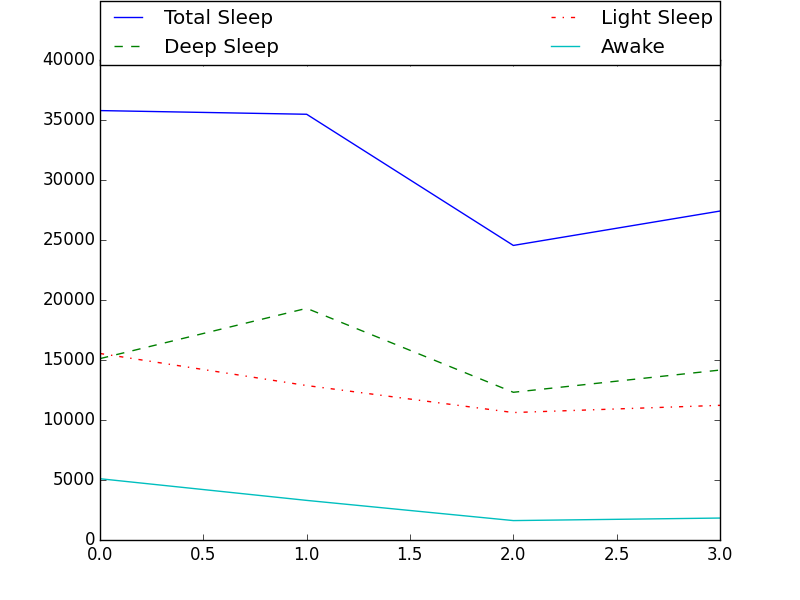
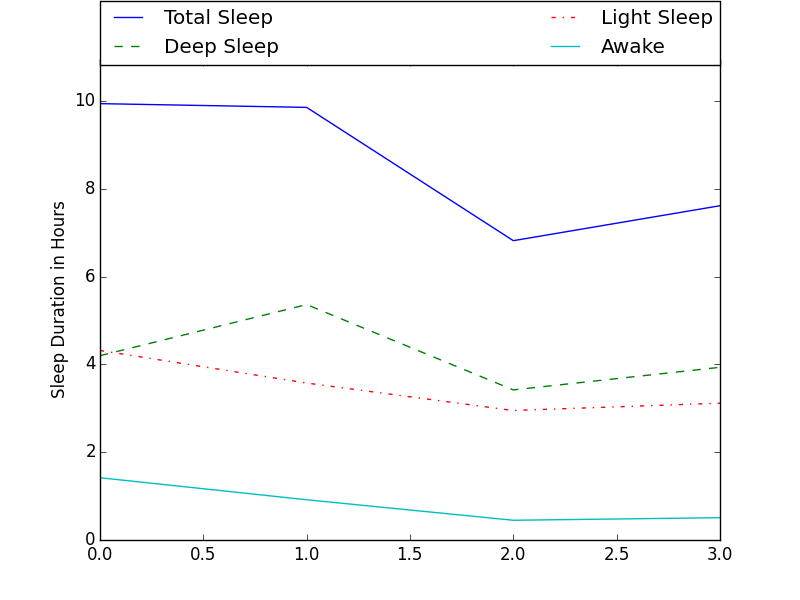
converted seconds to hours

diff --git a/main.py b/main.py
@@ -8,6 +8,10 @@ import json
 from pprint import pprint
 
 
+def to_hours(seconds):
+    return seconds / 60 / 60
+
+
 def plot_from_csv():
     sleep_data = parse_csv()
     total_times = []
@@ -17,10 +21,10 @@ def plot_from_csv():
     labels = []
     for row in sleep_data:
         # currently I am converting to number of seconds for plotting
-        total_times.append((row[1] - row[0]).total_seconds())
-        deep_times.append((row[4]).total_seconds())
-        light_times.append((row[7]).total_seconds())
-        awake_times.append((row[10]).total_seconds())
+        total_times.append(to_hours((row[1] - row[0]).total_seconds()))
+        deep_times.append(to_hours((row[4]).total_seconds()))
+        light_times.append(to_hours((row[7]).total_seconds()))
+        awake_times.append(to_hours((row[10]).total_seconds()))
 
         # label is month/day
         labels.append(str(row[1].month) + "/" + str(row[1].day))
@@ -43,13 +47,13 @@ def plot_from_json():
     for item in items:
         labels.append(item['time_completed'])
         item = item['details']
-        total_times.append(item['duration'])
-        deep_times.append(item['sound'])
-        light_times.append(item['light'])
-        awake_times.append(item['awake'])
+        total_times.append(to_hours(item['duration']))
+        deep_times.append(to_hours(item['sound']))
+        light_times.append(to_hours(item['light']))
+        awake_times.append(to_hours(item['awake']))
 
     plot_line_graph(total_times, deep_times, light_times, awake_times)
-    #plot_bar_chart(total_times, deep_times, light_times, awake_times, labels)
+    plot_bar_chart(total_times, deep_times, light_times, awake_times, labels)
     json_data.close()
 
 if __name__ == '__main__':

diff --git a/plotter.py b/plotter.py
@@ -42,8 +42,8 @@ def plot_bar_chart(total_sleep, deep_sleep, light_sleep, no_sleep, labels=[]):
         # axes and labels
         ax.set_xlim(-width, len(ind)+width)
         ax.set_ylim(0, max(total_sleep) + max(total_sleep) / 10)
-        ax.set_ylabel('total sleep in seconds per night')
-        ax.set_title('Sleep Duration per day')
+        ax.set_ylabel('total sleep in hours per night')
+        ax.set_title('Sleep Duration per night')
         xTickMarks = labels
         ax.set_xticks(ind+(width/2))
         xtickNames = ax.set_xticklabels(xTickMarks)
@@ -77,5 +77,9 @@ def plot_line_graph(total_sleep, deep_sleep, light_sleep, no_sleep, labels=[]):
     #plt.legend(handles=[line_total, line_deep, line_light, line_awake])
     plt.legend(bbox_to_anchor=(0., 1.02, 1., .102), loc=1,
            ncol=2, mode="expand", borderaxespad=0.)
+    plt.ylabel('Sleep Duration in Hours')
+
+    # set ylim to max total_sleep + 10%
+    plt.ylim(0, max(total_sleep) + (max(total_sleep) / 10))
     plt.show()
     print("daym")

diff --git a/csv_parser.py b/csv_parser.py
@@ -1,5 +1,7 @@
 __author__ = 'TPei'
-
+import csv
+import datetime
+from date_parser import *
 
 def parse_csv():
     """
